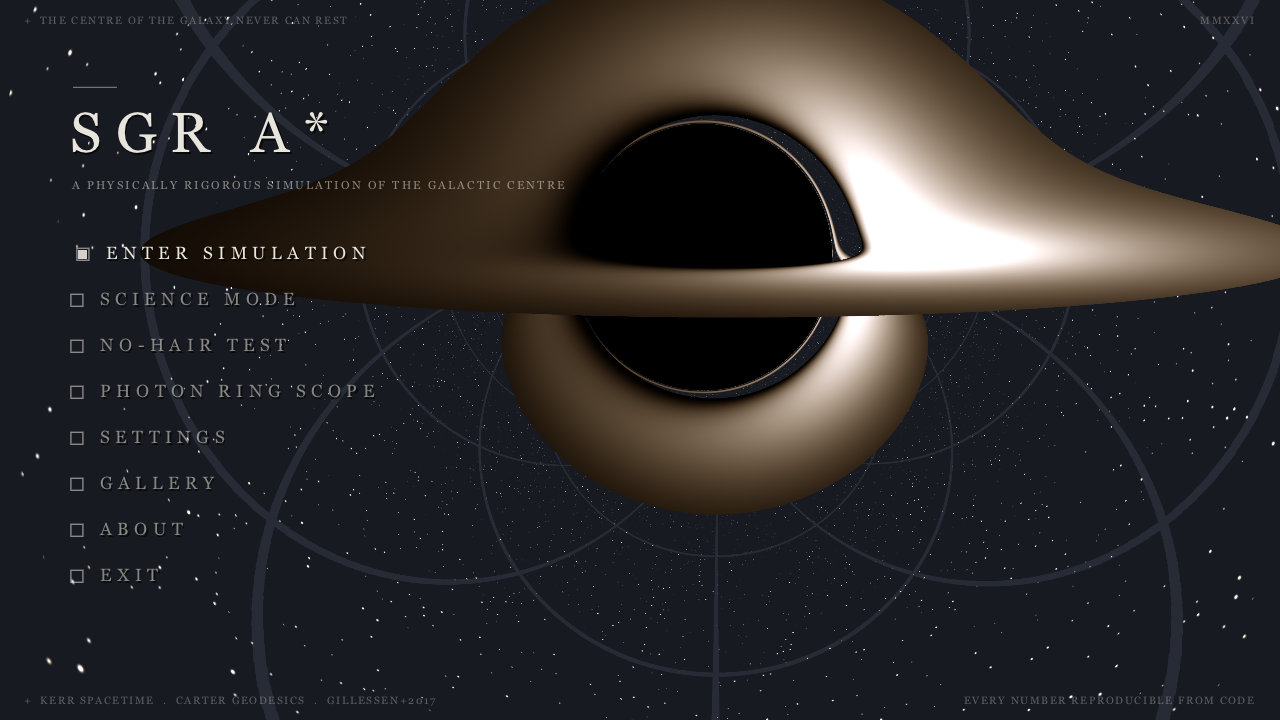
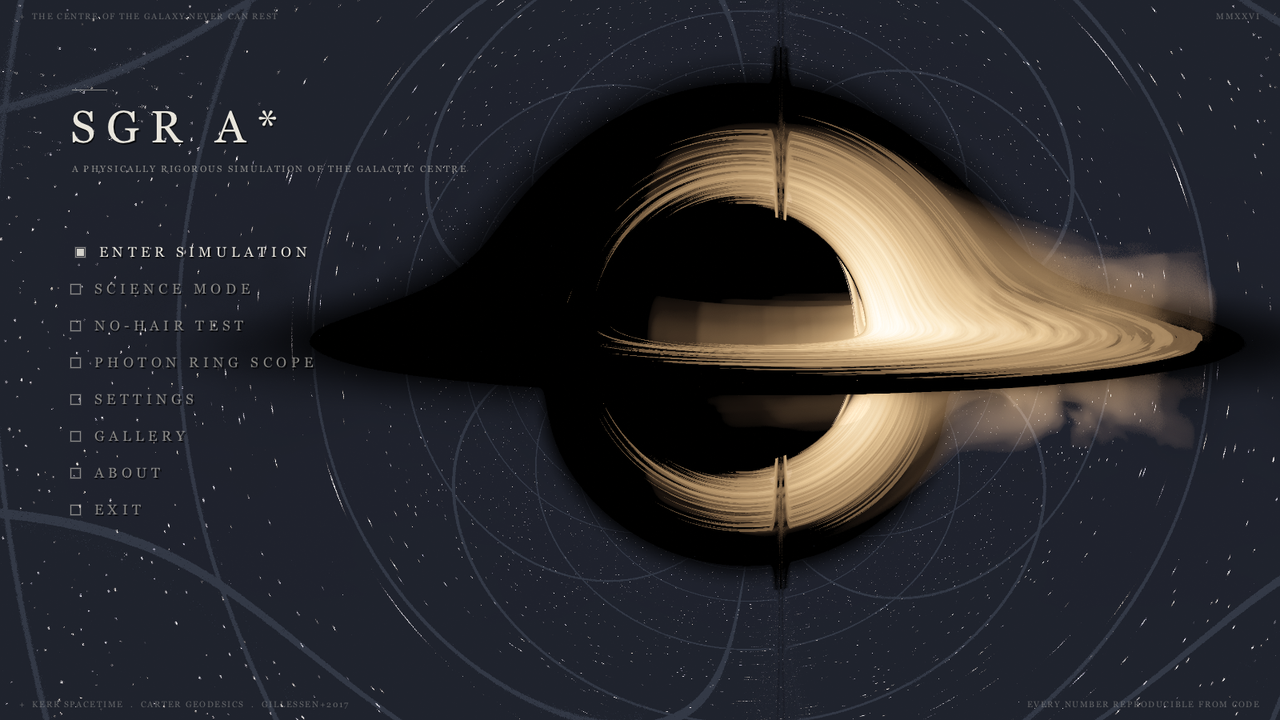
assets: CINEMATIC SGR A* menu plate; refresh the README gallery
- new 4K menu backdrop baked from the CINEMATIC SGR A* preset (a* 0.94,
  incl 84, r_cam 60 M, r_out 22 M, turbulence 0.90). Rendered 4608x2160 and
  cropped to 3840x2160 so the hole sits at 60 % width, leaving the left
  third dark for the menu type - a framing choice only, no pixel is altered.
- the hero caption is corrected rather than inherited: the old plate was
  33 million fp64 CPU-traced geodesics, the new one is 8.3 million fp32 GPU
  geodesics (one per 4K pixel) with the display-layer dust composited over
  unchanged physics. Saying "traced by the CPU reference tracer" would now
  be false.
- README gallery: CINEMATIC shown beside GARGANTUA (same geometry, different
  display layer), plus a new "S-star cluster, live" pair - the five fitted
  stars at TRUE scale from 5e5 M, and S2 tidally disrupted past its Roche
  threshold with the predicted per-star ordering (S2 at N~72, S8 at 96).
- fixed a stale claim while in there: the reproducibility contract covers 92
  macros, not 55, and paper/thesis.pdf (203 pp) is now mentioned alongside
  the 11-page journal paper.

All renders at 0 Vulkan validation errors.

diff --git a/README.md b/README.md
@@ -13,10 +13,12 @@ geodesics to a reproducible research paper.**
 ![paper](https://img.shields.io/badge/paper-MNRAS_style_·_11_pages-blue)
 ![reproducible](https://img.shields.io/badge/every_number-reproducible-purple)
 
-<img src="writeup/screenshots/phase_9/menu_boot.png" width="850" alt="The cinematic main menu — our own Kerr disk, ray-traced by the CPU reference tracer"/>
+<img src="writeup/screenshots/phase_9/menu_boot.png" width="850" alt="The main menu, backed by a 4K CINEMATIC SGR A* plate — 8.3 million Kerr geodesics traced by this code"/>
 
-*The main menu. The backdrop is not artwork — it is 33 million exact Kerr
-geodesics, traced by this code.*
+*The main menu. The backdrop is not artwork — it is 8.3 million exact Kerr
+geodesics (one per 4K pixel) traced by this code in the CINEMATIC SGR A\*
+preset, whose warm dust banks are a display layer composited over the
+unchanged physics.*
 
 <br>
 
@@ -172,8 +174,32 @@ Navigate the menu with **↑/↓ + Enter** or the mouse. In the simulation:
 | 6 | **CINEMATIC SGR A\*** | Volumetric orbiting dust banks over the exact geodesics — warm *Interstellar* white-gold; the `turbulence` slider sets cloud density |
 
 <div align="center">
+<img src="writeup/screenshots/features/preset_cinematic.png" width="410" alt="CINEMATIC SGR A* preset — volumetric dust banks over the exact geodesics"/>
 <img src="writeup/screenshots/phase_8/preset_gargantua.png" width="410" alt="GARGANTUA preset"/>
-<img src="writeup/screenshots/phase_8/preset_arctic.png" width="410" alt="ARCTIC preset"/>
+</div>
+
+<div align="center">
+
+*Left: **CINEMATIC SGR A\***, orbiting dust banks advected by the exact Ω(r).
+Right: **GARGANTUA**. The geometry is identical — only the display layer differs.*
+
+</div>
+
+### The S-star cluster, live
+
+<div align="center">
+<img src="writeup/screenshots/features/sstar_cluster.png" width="410" alt="S2, S1, S8, S12 and S13 on their fitted GR orbits at true scale"/>
+<img src="writeup/screenshots/features/tidal_disruption.png" width="410" alt="S2 tidally disrupted after shrinking its orbit past the Roche threshold"/>
+</div>
+
+<div align="center">
+
+*Left: the five fitted stars at **true scale** — S2's orbit really is ~24 000 M
+across, so the camera has flown out to 5×10⁵ M and the hole is a lensed dot.
+Right: shrink the orbits past a star's tidal radius and it breaks up into a
+bound debris stream — S2 goes at N≈72, S8 at 96, exactly as the cited
+spectroscopy predicts.*
+
 </div>
 
 <details>
@@ -235,10 +261,14 @@ make reproduce   # re-run the ENTIRE science chain: tests → renders →
                  # sub-rings → S2 fits → calibration + sweep → figures
 ```
 
-Every number in the paper is a LaTeX macro generated from the simulation's
-JSON artefacts — nothing is typed by hand, so the paper cannot silently
-drift from the code. The final verification run regenerated **all 55
-numbers bit-identically**.
+Alongside it, **`paper/thesis.pdf`** is the full 203-page report — the same
+physics at length, with the primer chapters, the development history and its
+bug hunts, and the notation glossary.
+
+Every number in both is a LaTeX macro generated from the simulation's JSON
+artefacts — nothing is typed by hand, so they cannot silently drift from the
+code. The final verification run regenerated **all 92 macros
+bit-identically**.
 
 ---
 
